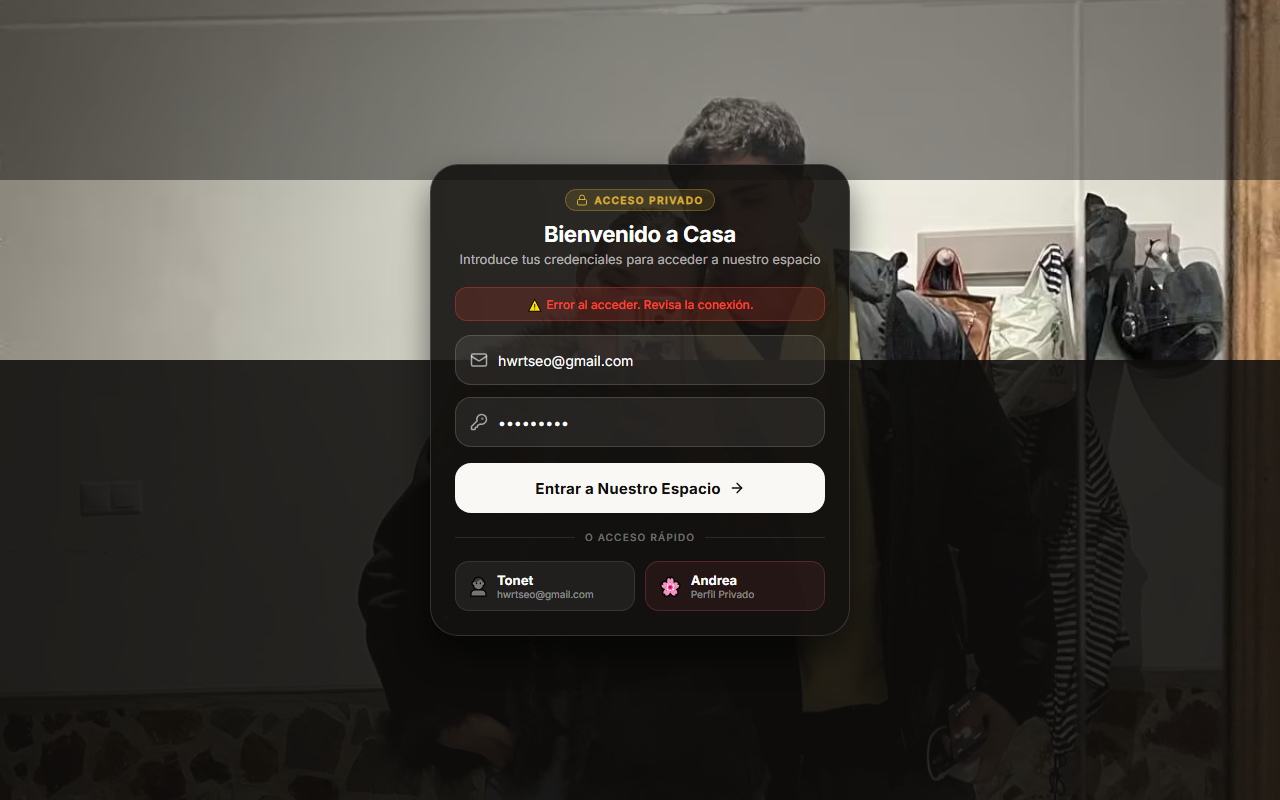
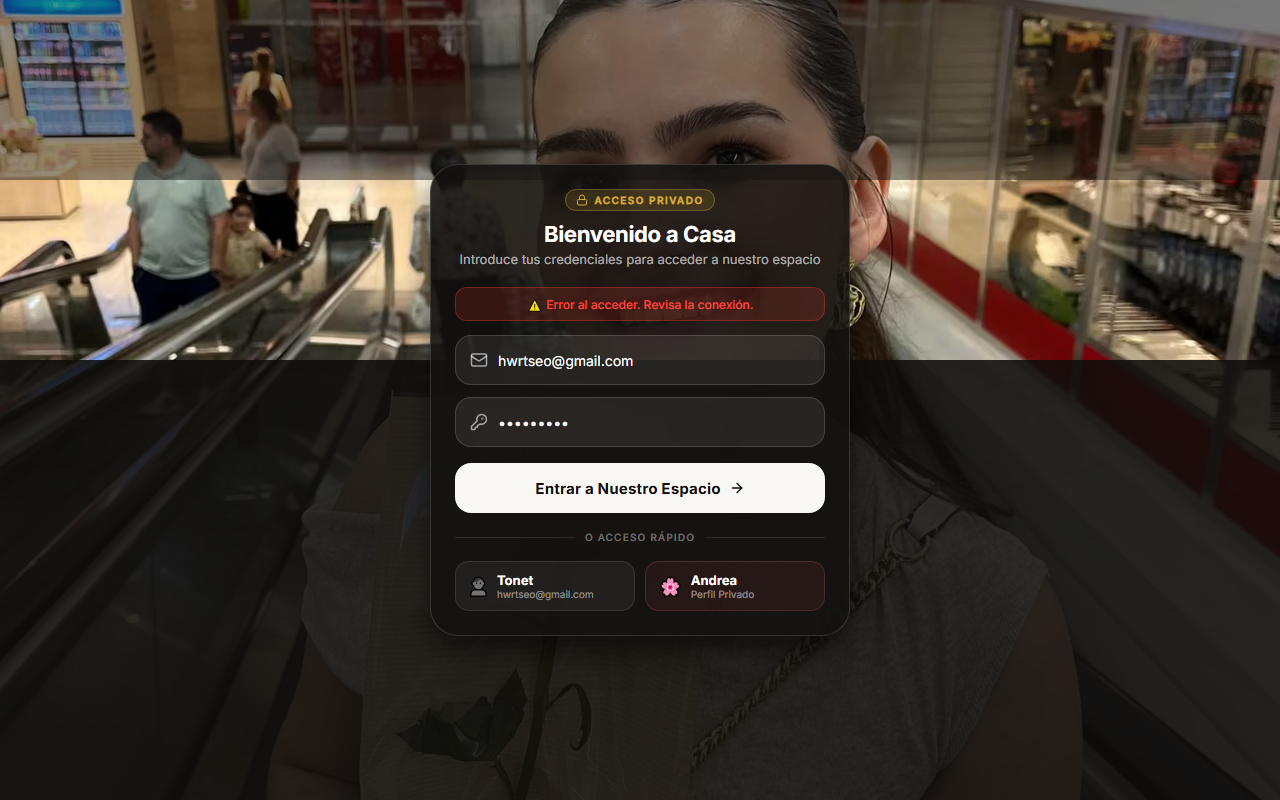
fix(auth): resilient web navigation on login success

diff --git a/apps/mobile/app/(auth)/login.tsx b/apps/mobile/app/(auth)/login.tsx
@@ -59,18 +59,19 @@ export default function LoginScreen() {
       const success = await loginWithEmail(targetEmail);
       if (success) {
         triggerHaptic('success');
-        if (Platform.OS === 'web') {
-          // Navegación garantizada en navegadores web
+        try {
           router.replace('/(tabs)/home');
-        } else {
-          router.replace('/(tabs)/home');
+        } catch {
+          if (Platform.OS === 'web' && typeof window !== 'undefined') {
+            window.location.href = '/(tabs)/home';
+          }
         }
       } else {
         setErrorMessage('No se pudo validar el acceso. Inténtalo de nuevo.');
       }
     } catch (e: any) {
-      triggerHaptic('error');
-      setErrorMessage('Error al acceder. Revisa la conexión.');
+      console.warn('Login error:', e);
+      setErrorMessage('Error al acceder. Inténtalo de nuevo.');
     } finally {
       setLoading(false);
     }
